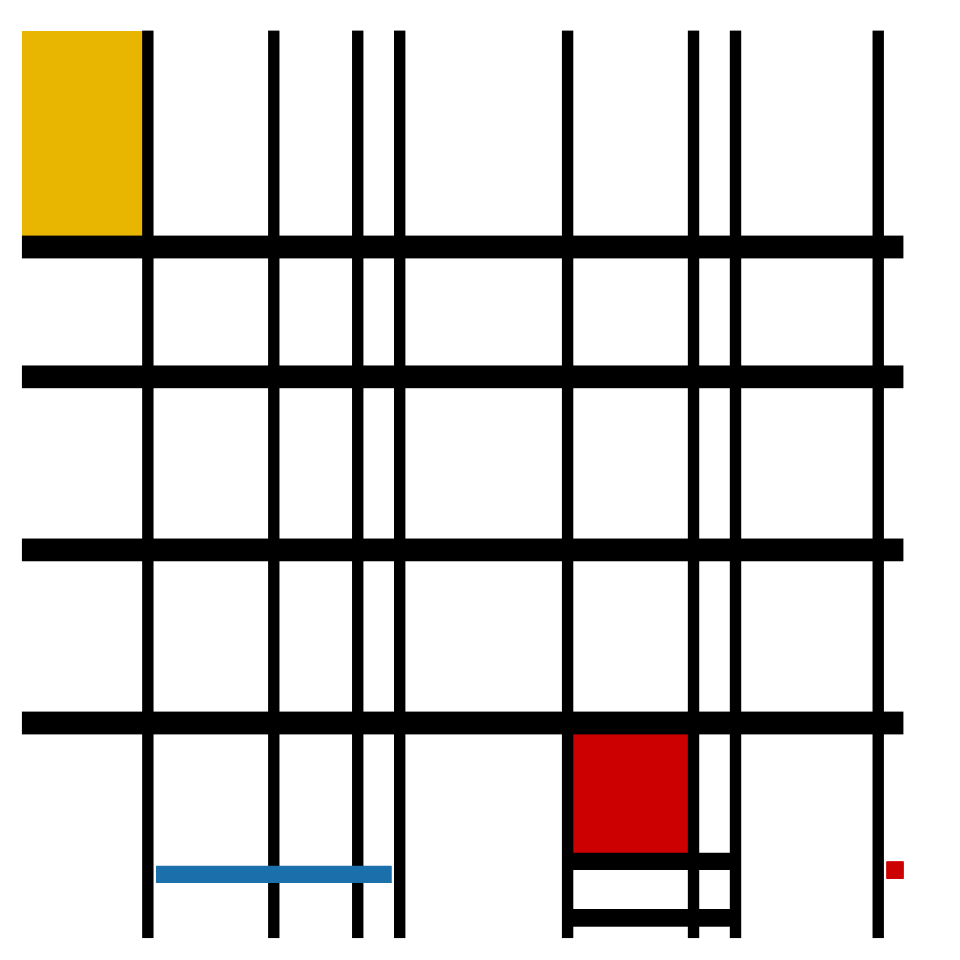
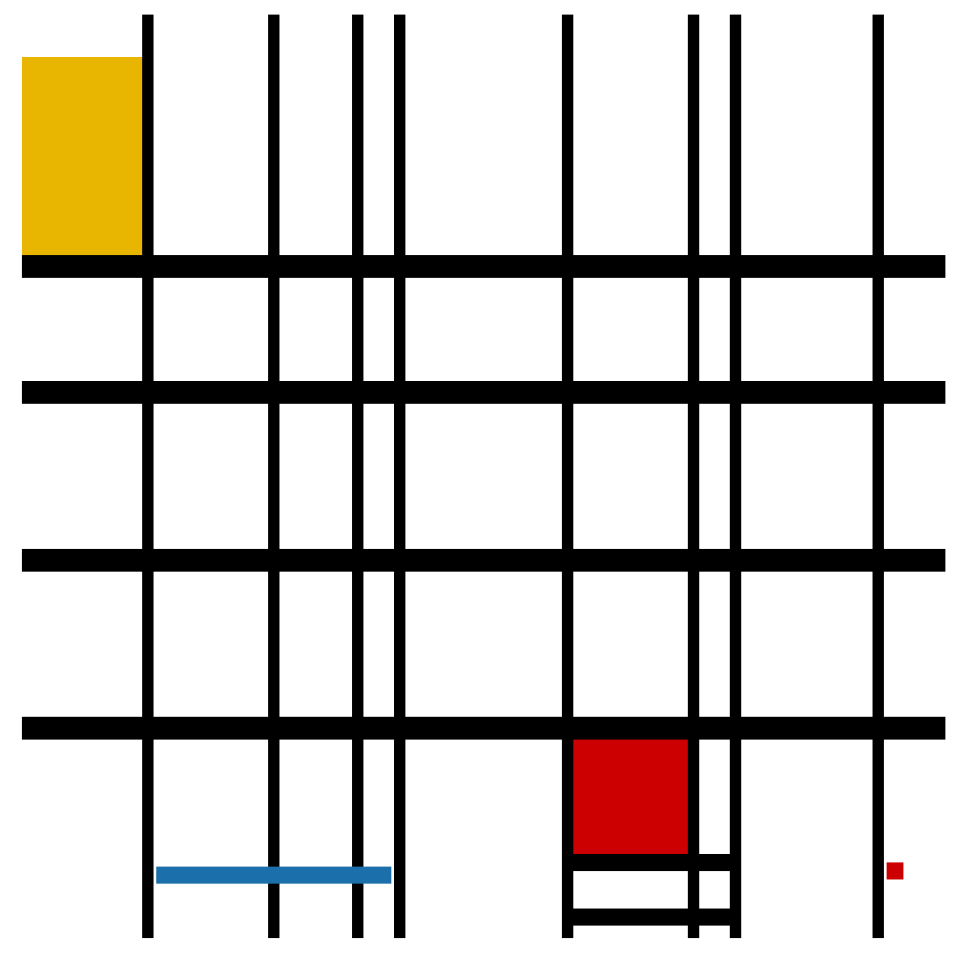
l

diff --git a/index.html b/index.html
@@ -157,27 +157,51 @@ pre > code.sourceCode > span > a:first-child::before { text-decoration: underlin
 <span id="cb3-59"><a href="#cb3-59" aria-hidden="true" tabindex="-1"></a>  <span class="at">ymax =</span> <span class="fu">c</span>(<span class="dv">11</span>, <span class="dv">5</span>, <span class="fl">3.5</span>, <span class="dv">0</span>, <span class="dv">0</span>, <span class="dv">7</span>),</span>
 <span id="cb3-60"><a href="#cb3-60" aria-hidden="true" tabindex="-1"></a>  <span class="at">color =</span> <span class="fu">c</span>(<span class="st">"blue"</span>, <span class="st">"yellow"</span>, <span class="st">"red"</span>, <span class="st">"red"</span>, <span class="st">"yellow"</span>, <span class="st">"red"</span>)</span>
 <span id="cb3-61"><a href="#cb3-61" aria-hidden="true" tabindex="-1"></a>)</span>
-<span id="cb3-62"><a href="#cb3-62" aria-hidden="true" tabindex="-1"></a></span>
-<span id="cb3-63"><a href="#cb3-63" aria-hidden="true" tabindex="-1"></a></span>
-<span id="cb3-64"><a href="#cb3-64" aria-hidden="true" tabindex="-1"></a>all_vertical_lines <span class="ot">&lt;-</span> <span class="fu">rbind</span>(vertical_lines1, vertical_lines2)</span>
-<span id="cb3-65"><a href="#cb3-65" aria-hidden="true" tabindex="-1"></a>all_horizontal_lines <span class="ot">&lt;-</span> <span class="fu">rbind</span>(horizontal_lines1, horizontal_lines2)</span>
-<span id="cb3-66"><a href="#cb3-66" aria-hidden="true" tabindex="-1"></a>all_segments <span class="ot">&lt;-</span> <span class="fu">rbind</span>(segments1, segments2)</span>
-<span id="cb3-67"><a href="#cb3-67" aria-hidden="true" tabindex="-1"></a>all_rectangles <span class="ot">&lt;-</span> <span class="fu">rbind</span>(rectangles1, rectangles2)</span>
-<span id="cb3-68"><a href="#cb3-68" aria-hidden="true" tabindex="-1"></a></span>
-<span id="cb3-69"><a href="#cb3-69" aria-hidden="true" tabindex="-1"></a>p <span class="ot">&lt;-</span> <span class="fu">ggplot</span>() <span class="sc">+</span></span>
-<span id="cb3-70"><a href="#cb3-70" aria-hidden="true" tabindex="-1"></a>  <span class="fu">geom_vline</span>(<span class="fu">aes</span>(<span class="at">xintercept =</span> x), <span class="at">data =</span> all_vertical_lines, <span class="at">linewidth =</span> <span class="dv">3</span>) <span class="sc">+</span></span>
-<span id="cb3-71"><a href="#cb3-71" aria-hidden="true" tabindex="-1"></a>  <span class="fu">geom_hline</span>(<span class="fu">aes</span>(<span class="at">yintercept =</span> y), <span class="at">data =</span> all_horizontal_lines, <span class="at">linewidth =</span> <span class="dv">3</span>) <span class="sc">+</span></span>
-<span id="cb3-72"><a href="#cb3-72" aria-hidden="true" tabindex="-1"></a>  <span class="fu">geom_rect</span>(<span class="at">data =</span> all_rectangles, <span class="fu">aes</span>(<span class="at">xmin =</span> xmin, <span class="at">xmax =</span> xmax, <span class="at">ymin =</span> ymin, <span class="at">ymax =</span> ymax, <span class="at">fill =</span> <span class="fu">as.factor</span>(color))) <span class="sc">+</span></span>
-<span id="cb3-73"><a href="#cb3-73" aria-hidden="true" tabindex="-1"></a>  <span class="fu">geom_segment</span>(<span class="fu">aes</span>(<span class="at">x =</span> x_start, <span class="at">xend =</span> x_end, <span class="at">y =</span> y), <span class="at">data =</span> all_segments, <span class="at">linewidth =</span> <span class="dv">3</span>) <span class="sc">+</span></span>
-<span id="cb3-74"><a href="#cb3-74" aria-hidden="true" tabindex="-1"></a>  <span class="fu">scale_fill_manual</span>(<span class="at">values =</span> <span class="fu">c</span>(<span class="st">"blue"</span> <span class="ot">=</span> <span class="st">"#255293"</span>, <span class="st">"red"</span> <span class="ot">=</span> <span class="st">"#db0a16"</span>, <span class="st">"yellow"</span> <span class="ot">=</span> <span class="st">"#E8B600"</span>)) <span class="sc">+</span></span>
-<span id="cb3-75"><a href="#cb3-75" aria-hidden="true" tabindex="-1"></a>  <span class="fu">transition_states</span>(state, <span class="at">transition_length =</span> <span class="dv">2</span>, <span class="at">state_length =</span> <span class="dv">2</span>) <span class="sc">+</span></span>
-<span id="cb3-76"><a href="#cb3-76" aria-hidden="true" tabindex="-1"></a>  <span class="fu">enter_grow</span>() <span class="sc">+</span> </span>
-<span id="cb3-77"><a href="#cb3-77" aria-hidden="true" tabindex="-1"></a>  <span class="fu">enter_fade</span>() <span class="sc">+</span> </span>
-<span id="cb3-78"><a href="#cb3-78" aria-hidden="true" tabindex="-1"></a>  <span class="fu">coord_cartesian</span>(<span class="at">xlim =</span> <span class="fu">c</span>(<span class="dv">0</span>, <span class="dv">10</span>), <span class="at">ylim =</span> <span class="fu">c</span>(<span class="dv">0</span>, <span class="dv">10</span>)) <span class="sc">+</span></span>
-<span id="cb3-79"><a href="#cb3-79" aria-hidden="true" tabindex="-1"></a>  <span class="fu">my_theme</span>()</span>
-<span id="cb3-80"><a href="#cb3-80" aria-hidden="true" tabindex="-1"></a></span>
-<span id="cb3-81"><a href="#cb3-81" aria-hidden="true" tabindex="-1"></a>anim <span class="ot">&lt;-</span> <span class="fu">animate</span>(p, <span class="at">duration =</span> <span class="dv">10</span>, <span class="at">fps =</span> <span class="dv">20</span>, <span class="at">end_pause =</span> <span class="dv">5</span>)</span>
-<span id="cb3-82"><a href="#cb3-82" aria-hidden="true" tabindex="-1"></a>anim</span></code><button title="Copy to Clipboard" class="code-copy-button"><i class="bi"></i></button></pre></div>
+<span id="cb3-62"><a href="#cb3-62" aria-hidden="true" tabindex="-1"></a><span class="co">#third plot</span></span>
+<span id="cb3-63"><a href="#cb3-63" aria-hidden="true" tabindex="-1"></a>vertical_lines3 <span class="ot">&lt;-</span> <span class="fu">data.frame</span>(</span>
+<span id="cb3-64"><a href="#cb3-64" aria-hidden="true" tabindex="-1"></a>  <span class="at">state =</span> <span class="st">"Third"</span>,</span>
+<span id="cb3-65"><a href="#cb3-65" aria-hidden="true" tabindex="-1"></a>  <span class="at">x =</span> <span class="fu">c</span>(<span class="dv">1</span>, <span class="fl">2.5</span>, <span class="fl">3.5</span>, <span class="dv">4</span>, <span class="dv">6</span>, <span class="fl">7.5</span>, <span class="dv">8</span>, <span class="fl">9.7</span>),</span>
+<span id="cb3-66"><a href="#cb3-66" aria-hidden="true" tabindex="-1"></a>  <span class="at">y_start =</span> <span class="fu">rep</span>(<span class="cn">NA</span>, <span class="dv">8</span>),  </span>
+<span id="cb3-67"><a href="#cb3-67" aria-hidden="true" tabindex="-1"></a>  <span class="at">y_end =</span> <span class="fu">rep</span>(<span class="dv">10</span>, <span class="dv">8</span>)</span>
+<span id="cb3-68"><a href="#cb3-68" aria-hidden="true" tabindex="-1"></a>)</span>
+<span id="cb3-69"><a href="#cb3-69" aria-hidden="true" tabindex="-1"></a></span>
+<span id="cb3-70"><a href="#cb3-70" aria-hidden="true" tabindex="-1"></a></span>
+<span id="cb3-71"><a href="#cb3-71" aria-hidden="true" tabindex="-1"></a>horizontal_lines3 <span class="ot">&lt;-</span> <span class="fu">data.frame</span>(</span>
+<span id="cb3-72"><a href="#cb3-72" aria-hidden="true" tabindex="-1"></a>  <span class="at">state =</span> <span class="st">"Third"</span>,</span>
+<span id="cb3-73"><a href="#cb3-73" aria-hidden="true" tabindex="-1"></a>  <span class="at">y =</span> <span class="fu">c</span>(<span class="dv">2</span>, <span class="dv">4</span>, <span class="dv">6</span>, <span class="fl">7.5</span>),</span>
+<span id="cb3-74"><a href="#cb3-74" aria-hidden="true" tabindex="-1"></a>  <span class="at">x_start =</span> <span class="fu">rep</span>(<span class="sc">-</span><span class="fl">0.5</span>, <span class="dv">4</span>),</span>
+<span id="cb3-75"><a href="#cb3-75" aria-hidden="true" tabindex="-1"></a>  <span class="at">x_end =</span> <span class="fu">rep</span>(<span class="dv">10</span>, <span class="dv">4</span>)</span>
+<span id="cb3-76"><a href="#cb3-76" aria-hidden="true" tabindex="-1"></a>)</span>
+<span id="cb3-77"><a href="#cb3-77" aria-hidden="true" tabindex="-1"></a></span>
+<span id="cb3-78"><a href="#cb3-78" aria-hidden="true" tabindex="-1"></a>rectangles3 <span class="ot">&lt;-</span> <span class="fu">data.frame</span>(</span>
+<span id="cb3-79"><a href="#cb3-79" aria-hidden="true" tabindex="-1"></a>  <span class="at">state =</span> <span class="st">"Third"</span>,</span>
+<span id="cb3-80"><a href="#cb3-80" aria-hidden="true" tabindex="-1"></a>  <span class="at">xmin =</span> <span class="fu">c</span>(<span class="sc">-</span><span class="fl">0.5</span>, <span class="fl">2.5</span>, <span class="dv">4</span>, <span class="dv">6</span>, <span class="fl">7.5</span>),</span>
+<span id="cb3-81"><a href="#cb3-81" aria-hidden="true" tabindex="-1"></a>  <span class="at">xmax =</span> <span class="fu">c</span>(<span class="dv">1</span>, <span class="fl">3.5</span>, <span class="dv">6</span>, <span class="fl">7.5</span>, <span class="fl">9.7</span>),</span>
+<span id="cb3-82"><a href="#cb3-82" aria-hidden="true" tabindex="-1"></a>  <span class="at">ymin =</span> <span class="fu">c</span>(<span class="fl">7.5</span>, <span class="dv">0</span>, <span class="fl">7.5</span>, .<span class="dv">5</span>, <span class="dv">4</span>),</span>
+<span id="cb3-83"><a href="#cb3-83" aria-hidden="true" tabindex="-1"></a>  <span class="at">ymax =</span> <span class="fu">c</span>(<span class="dv">10</span>, <span class="dv">4</span>, <span class="fl">7.5</span>, <span class="dv">2</span>, <span class="dv">10</span>),</span>
+<span id="cb3-84"><a href="#cb3-84" aria-hidden="true" tabindex="-1"></a>  <span class="at">color =</span> <span class="fu">c</span>(<span class="st">"#E8B600"</span>, <span class="st">"white"</span>, <span class="st">"white"</span>, <span class="st">"#CC0000"</span>, <span class="st">"white"</span>)</span>
+<span id="cb3-85"><a href="#cb3-85" aria-hidden="true" tabindex="-1"></a>)</span>
+<span id="cb3-86"><a href="#cb3-86" aria-hidden="true" tabindex="-1"></a></span>
+<span id="cb3-87"><a href="#cb3-87" aria-hidden="true" tabindex="-1"></a>all_vertical_lines <span class="ot">&lt;-</span> <span class="fu">rbind</span>(vertical_lines1, vertical_lines2, vertical_lines3)</span>
+<span id="cb3-88"><a href="#cb3-88" aria-hidden="true" tabindex="-1"></a>all_horizontal_lines <span class="ot">&lt;-</span> <span class="fu">rbind</span>(horizontal_lines1, horizontal_lines2, horizontal_lines3)</span>
+<span id="cb3-89"><a href="#cb3-89" aria-hidden="true" tabindex="-1"></a>all_segments <span class="ot">&lt;-</span> <span class="fu">rbind</span>(segments1, segments2)</span>
+<span id="cb3-90"><a href="#cb3-90" aria-hidden="true" tabindex="-1"></a>all_rectangles <span class="ot">&lt;-</span> <span class="fu">rbind</span>(rectangles1, rectangles2, rectangles3)</span>
+<span id="cb3-91"><a href="#cb3-91" aria-hidden="true" tabindex="-1"></a></span>
+<span id="cb3-92"><a href="#cb3-92" aria-hidden="true" tabindex="-1"></a></span>
+<span id="cb3-93"><a href="#cb3-93" aria-hidden="true" tabindex="-1"></a>p <span class="ot">&lt;-</span> <span class="fu">ggplot</span>() <span class="sc">+</span></span>
+<span id="cb3-94"><a href="#cb3-94" aria-hidden="true" tabindex="-1"></a>  <span class="fu">geom_vline</span>(<span class="fu">aes</span>(<span class="at">xintercept =</span> x), <span class="at">data =</span> all_vertical_lines, <span class="at">linewidth =</span> <span class="dv">3</span>) <span class="sc">+</span></span>
+<span id="cb3-95"><a href="#cb3-95" aria-hidden="true" tabindex="-1"></a>  <span class="fu">geom_hline</span>(<span class="fu">aes</span>(<span class="at">yintercept =</span> y), <span class="at">data =</span> all_horizontal_lines, <span class="at">linewidth =</span> <span class="dv">3</span>) <span class="sc">+</span></span>
+<span id="cb3-96"><a href="#cb3-96" aria-hidden="true" tabindex="-1"></a>  <span class="fu">geom_rect</span>(<span class="at">data =</span> all_rectangles, <span class="fu">aes</span>(<span class="at">xmin =</span> xmin, <span class="at">xmax =</span> xmax, <span class="at">ymin =</span> ymin, <span class="at">ymax =</span> ymax, <span class="at">fill =</span> color)) <span class="sc">+</span></span>
+<span id="cb3-97"><a href="#cb3-97" aria-hidden="true" tabindex="-1"></a>  <span class="fu">scale_fill_manual</span>(<span class="at">values =</span> <span class="fu">c</span>(<span class="st">"blue"</span> <span class="ot">=</span> <span class="st">"#255293"</span>, <span class="st">"red"</span> <span class="ot">=</span> <span class="st">"#db0a16"</span>, <span class="st">"yellow"</span> <span class="ot">=</span> <span class="st">"#E8B600"</span>, <span class="st">"white"</span> <span class="ot">=</span> <span class="st">"white"</span>)) <span class="sc">+</span></span>
+<span id="cb3-98"><a href="#cb3-98" aria-hidden="true" tabindex="-1"></a>  <span class="fu">transition_states</span>(state, <span class="at">transition_length =</span> <span class="dv">2</span>, <span class="at">state_length =</span> <span class="dv">1</span>) <span class="sc">+</span></span>
+<span id="cb3-99"><a href="#cb3-99" aria-hidden="true" tabindex="-1"></a>  <span class="fu">enter_grow</span>() <span class="sc">+</span></span>
+<span id="cb3-100"><a href="#cb3-100" aria-hidden="true" tabindex="-1"></a>  <span class="fu">enter_fade</span>() <span class="sc">+</span></span>
+<span id="cb3-101"><a href="#cb3-101" aria-hidden="true" tabindex="-1"></a>  <span class="fu">coord_cartesian</span>(<span class="at">xlim =</span> <span class="fu">c</span>(<span class="dv">0</span>, <span class="dv">10</span>), <span class="at">ylim =</span> <span class="fu">c</span>(<span class="dv">0</span>, <span class="dv">10</span>)) <span class="sc">+</span></span>
+<span id="cb3-102"><a href="#cb3-102" aria-hidden="true" tabindex="-1"></a>  <span class="fu">my_theme</span>()</span>
+<span id="cb3-103"><a href="#cb3-103" aria-hidden="true" tabindex="-1"></a></span>
+<span id="cb3-104"><a href="#cb3-104" aria-hidden="true" tabindex="-1"></a></span>
+<span id="cb3-105"><a href="#cb3-105" aria-hidden="true" tabindex="-1"></a>anim <span class="ot">&lt;-</span> <span class="fu">animate</span>(p, <span class="at">duration =</span> <span class="dv">15</span>, <span class="at">fps =</span> <span class="dv">20</span>, <span class="at">end_pause =</span> <span class="dv">5</span>)</span>
+<span id="cb3-106"><a href="#cb3-106" aria-hidden="true" tabindex="-1"></a>anim</span></code><button title="Copy to Clipboard" class="code-copy-button"><i class="bi"></i></button></pre></div>
 <div class="cell-output-display">
 <div>
 <figure class="figure">
